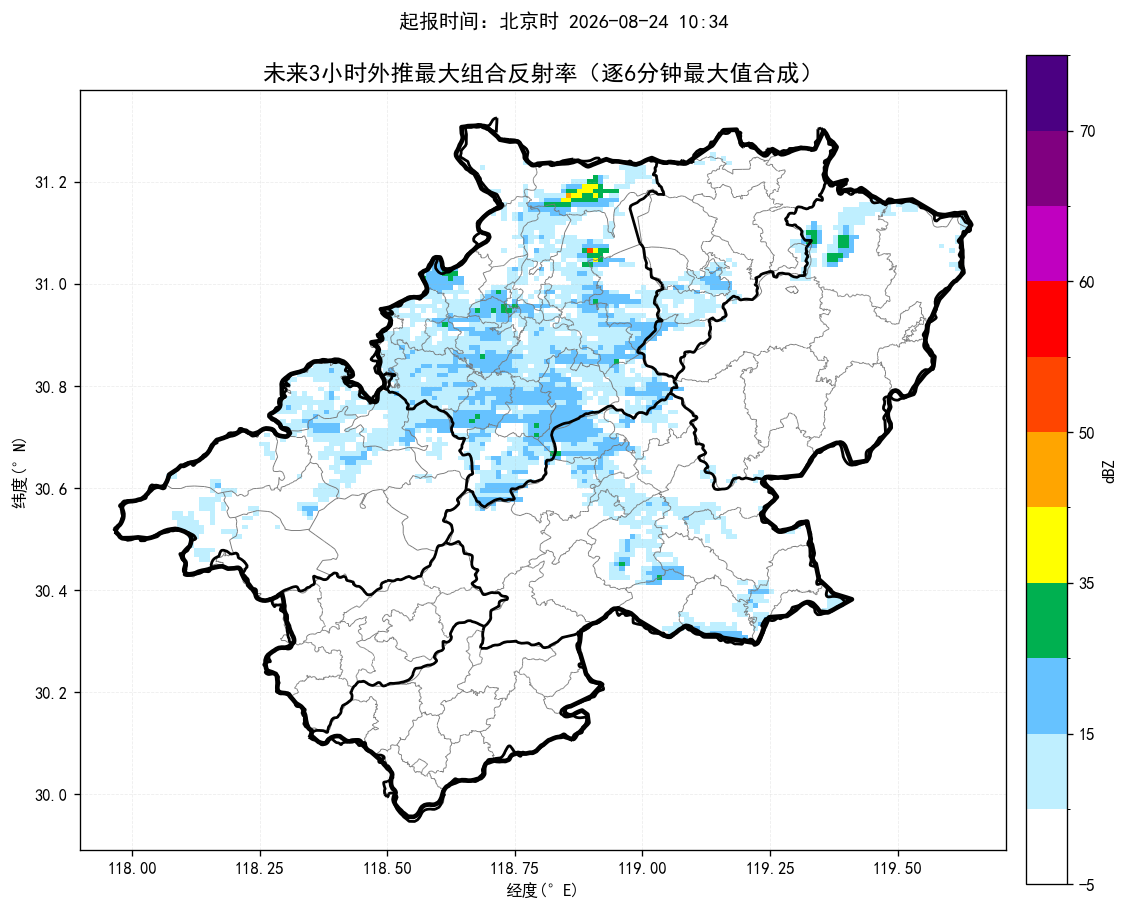
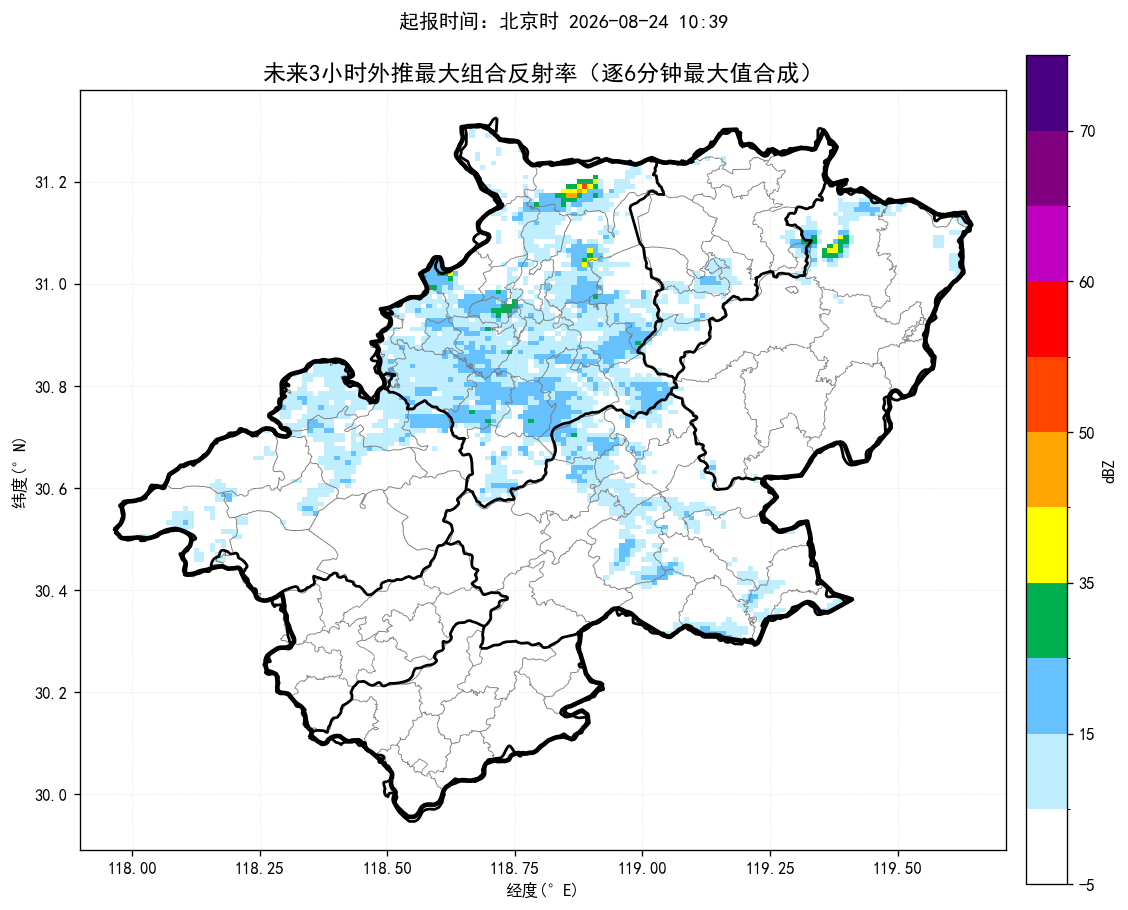
update nowcast products

diff --git a/index.html b/index.html
@@ -14,14 +14,14 @@ img.product{display:block;width:100%;height:auto;margin:10px auto 26px;border:1p
 .footer{font-size:13px;color:#777;text-align:center;margin-top:30px}
 @media(max-width:700px){.sheet{margin:0;padding:18px 15px}.alert-title{font-size:22px}.county-line{font-size:17px}.prob{font-size:18px}}
 </style></head><body><main class="sheet">
-<div class="time">起报时间：北京时 2026-08-24 10:34</div>
-<div class="alert-title">未来一小时降水量超过 20 毫米的乡镇：</div><div class="county-line">无</div>
+<div class="time">起报时间：北京时 2026-08-24 10:39</div>
+<div class="alert-title">未来一小时降水量超过 20 毫米的乡镇：</div><div class="county-line">宣州区：狸桥镇</div>
 <div class="alert-title">未来三小时降水量超过 50 毫米的乡镇：</div><div class="county-line">无</div>
 <div class="alert-title">未来三小时雷暴大风（组合反射率 > 55 dBZ）的乡镇：</div><div class="county-line">无</div>
-<div class="prob">最大降水量概率预估：宣城市范围内未来三小时累计降水达到50毫米概率约0%，达到80毫米概率约0%，达到100毫米概率约0%。</div>
-<div class="section-title">未来降水预报图：</div><img class="product auto-refresh-product" data-src="短临降水预报.png" src="短临降水预报.png?v=20260824104011" alt="未来降水预报图">
-<div class="section-title">未来三小时组合反射率图：</div><img class="product auto-refresh-product" data-src="未来3小时组合反射率.png" src="未来3小时组合反射率.png?v=20260824104011" alt="未来三小时组合反射率图">
-<div class="section-title">未来三小时雷暴大风图：</div><img class="product auto-refresh-product" data-src="未来3小时雷暴大风.png" src="未来3小时雷暴大风.png?v=20260824104011" alt="未来三小时雷暴大风图">
+<div class="prob">最大降水量概率预估：宣城市范围内未来三小时累计降水达到50毫米概率约34%，达到80毫米概率约3%，达到100毫米概率约0%。</div>
+<div class="section-title">未来降水预报图：</div><img class="product auto-refresh-product" data-src="短临降水预报.png" src="短临降水预报.png?v=20260824104551" alt="未来降水预报图">
+<div class="section-title">未来三小时组合反射率图：</div><img class="product auto-refresh-product" data-src="未来3小时组合反射率.png" src="未来3小时组合反射率.png?v=20260824104551" alt="未来三小时组合反射率图">
+<div class="section-title">未来三小时雷暴大风图：</div><img class="product auto-refresh-product" data-src="未来3小时雷暴大风.png" src="未来3小时雷暴大风.png?v=20260824104551" alt="未来三小时雷暴大风图">
 <div class="footer">三张产品图每 60 秒自动刷新一次；每次请求自动附加新的URL参数以绕过缓存。</div>
 <script>
 (function() {
